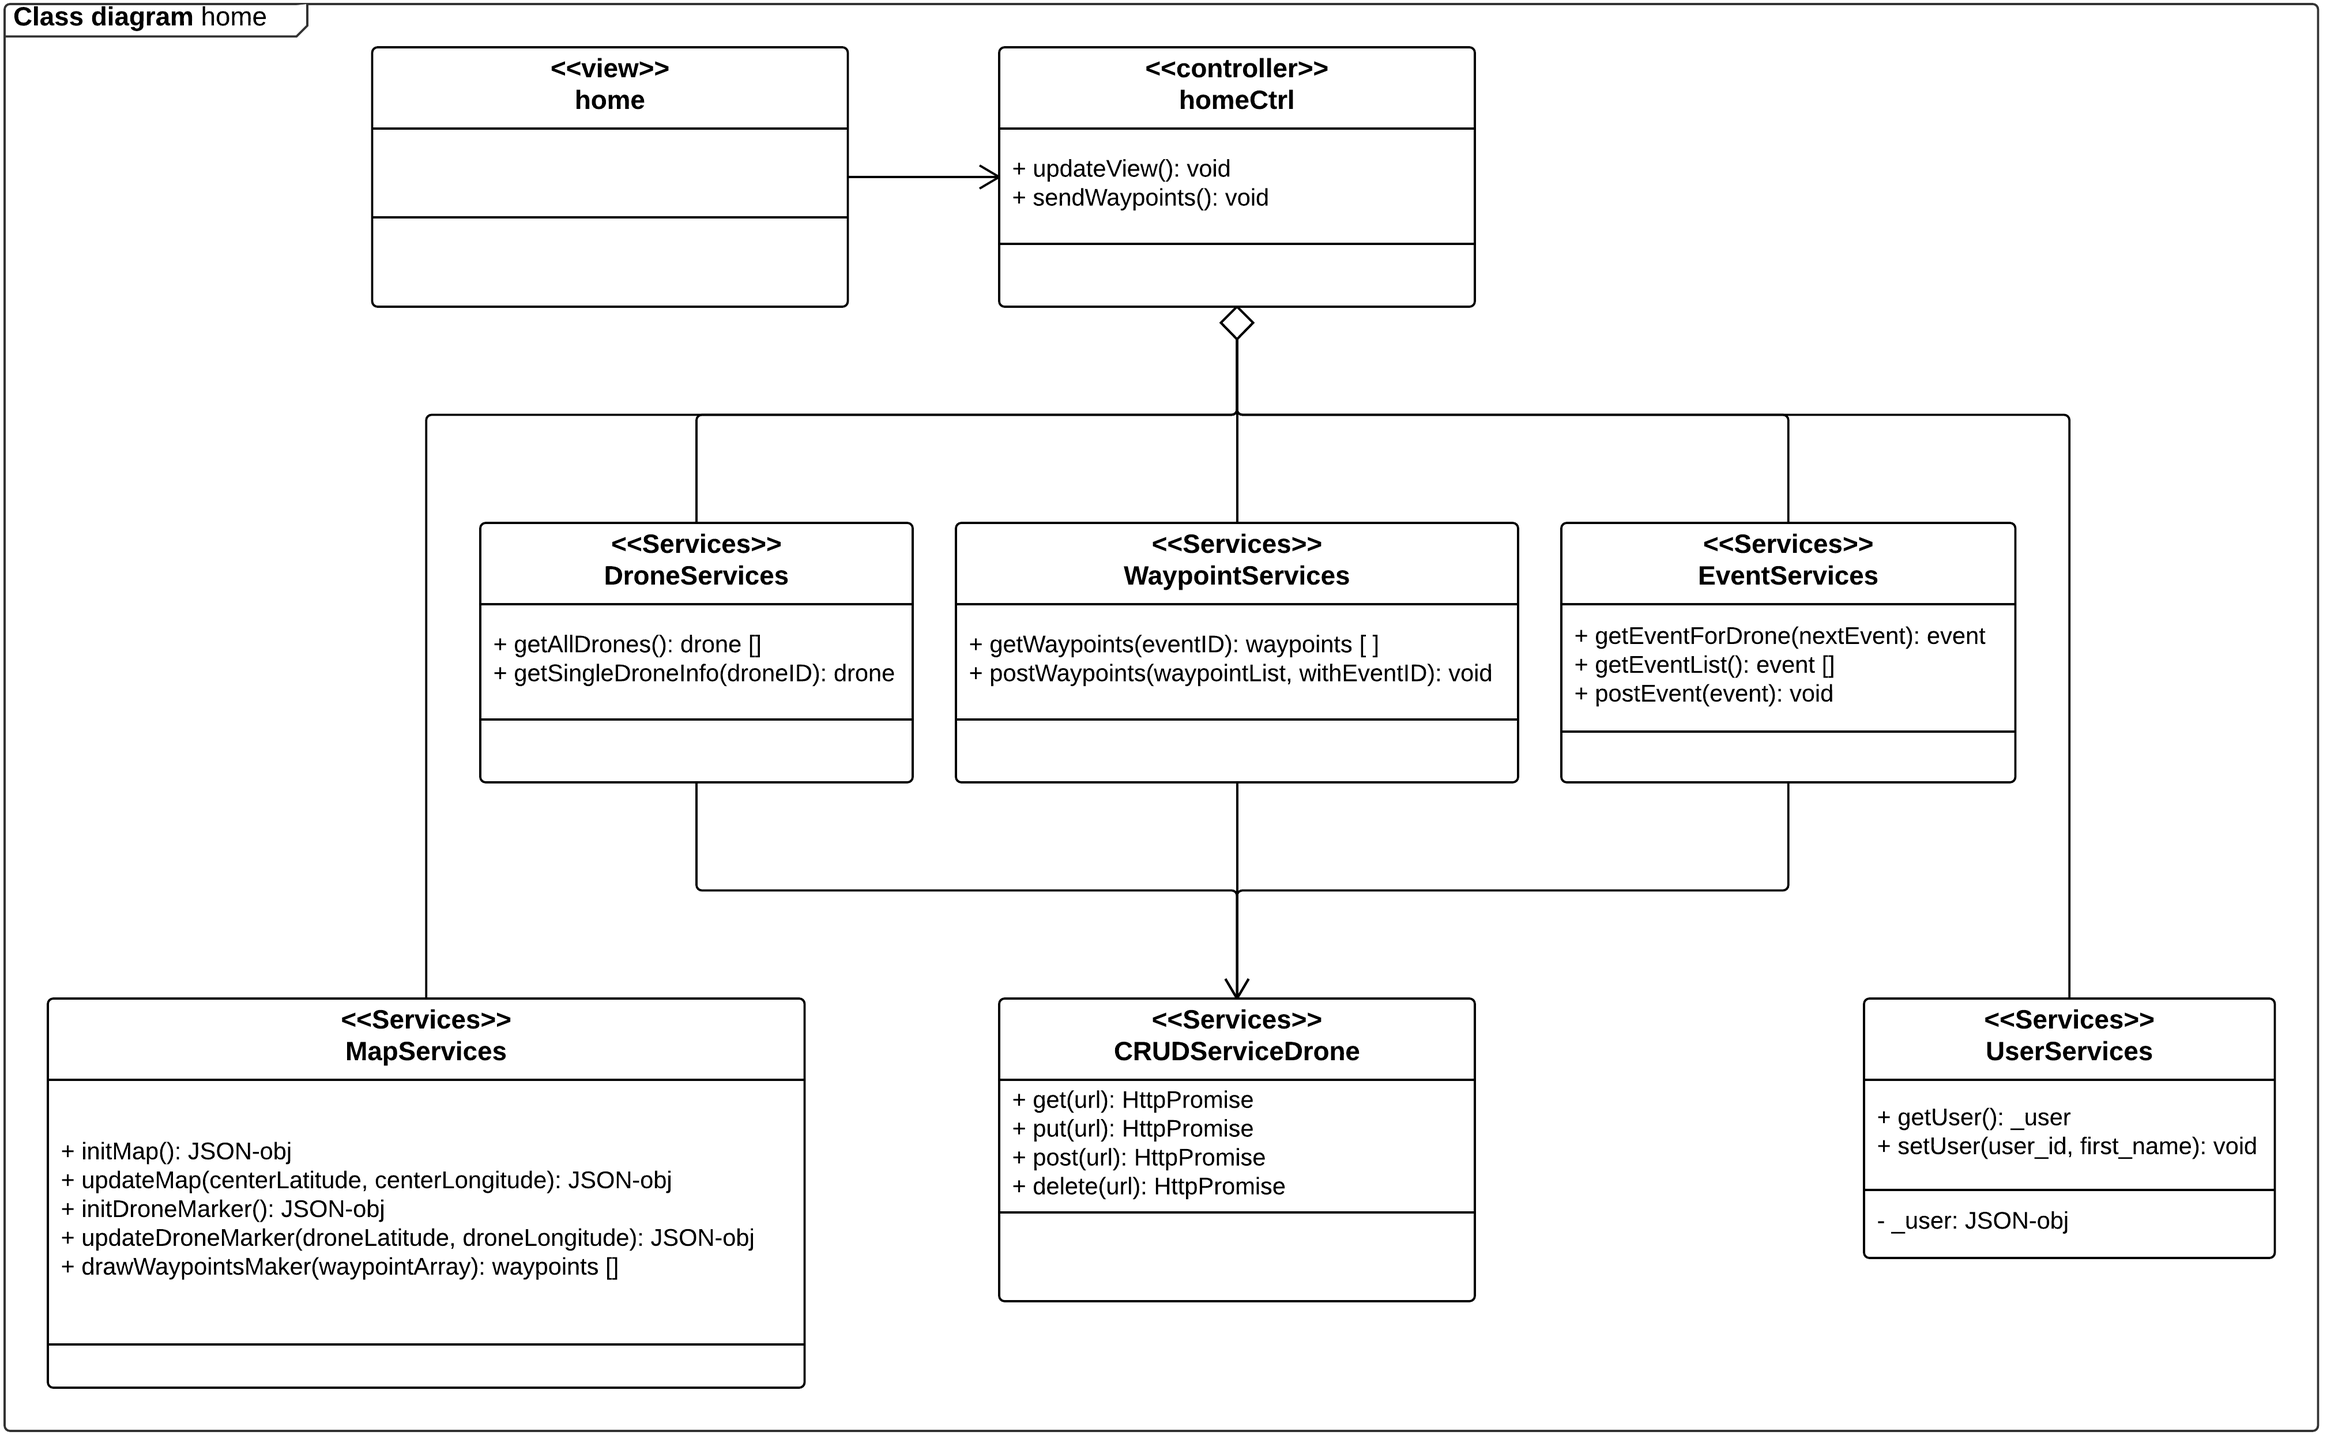
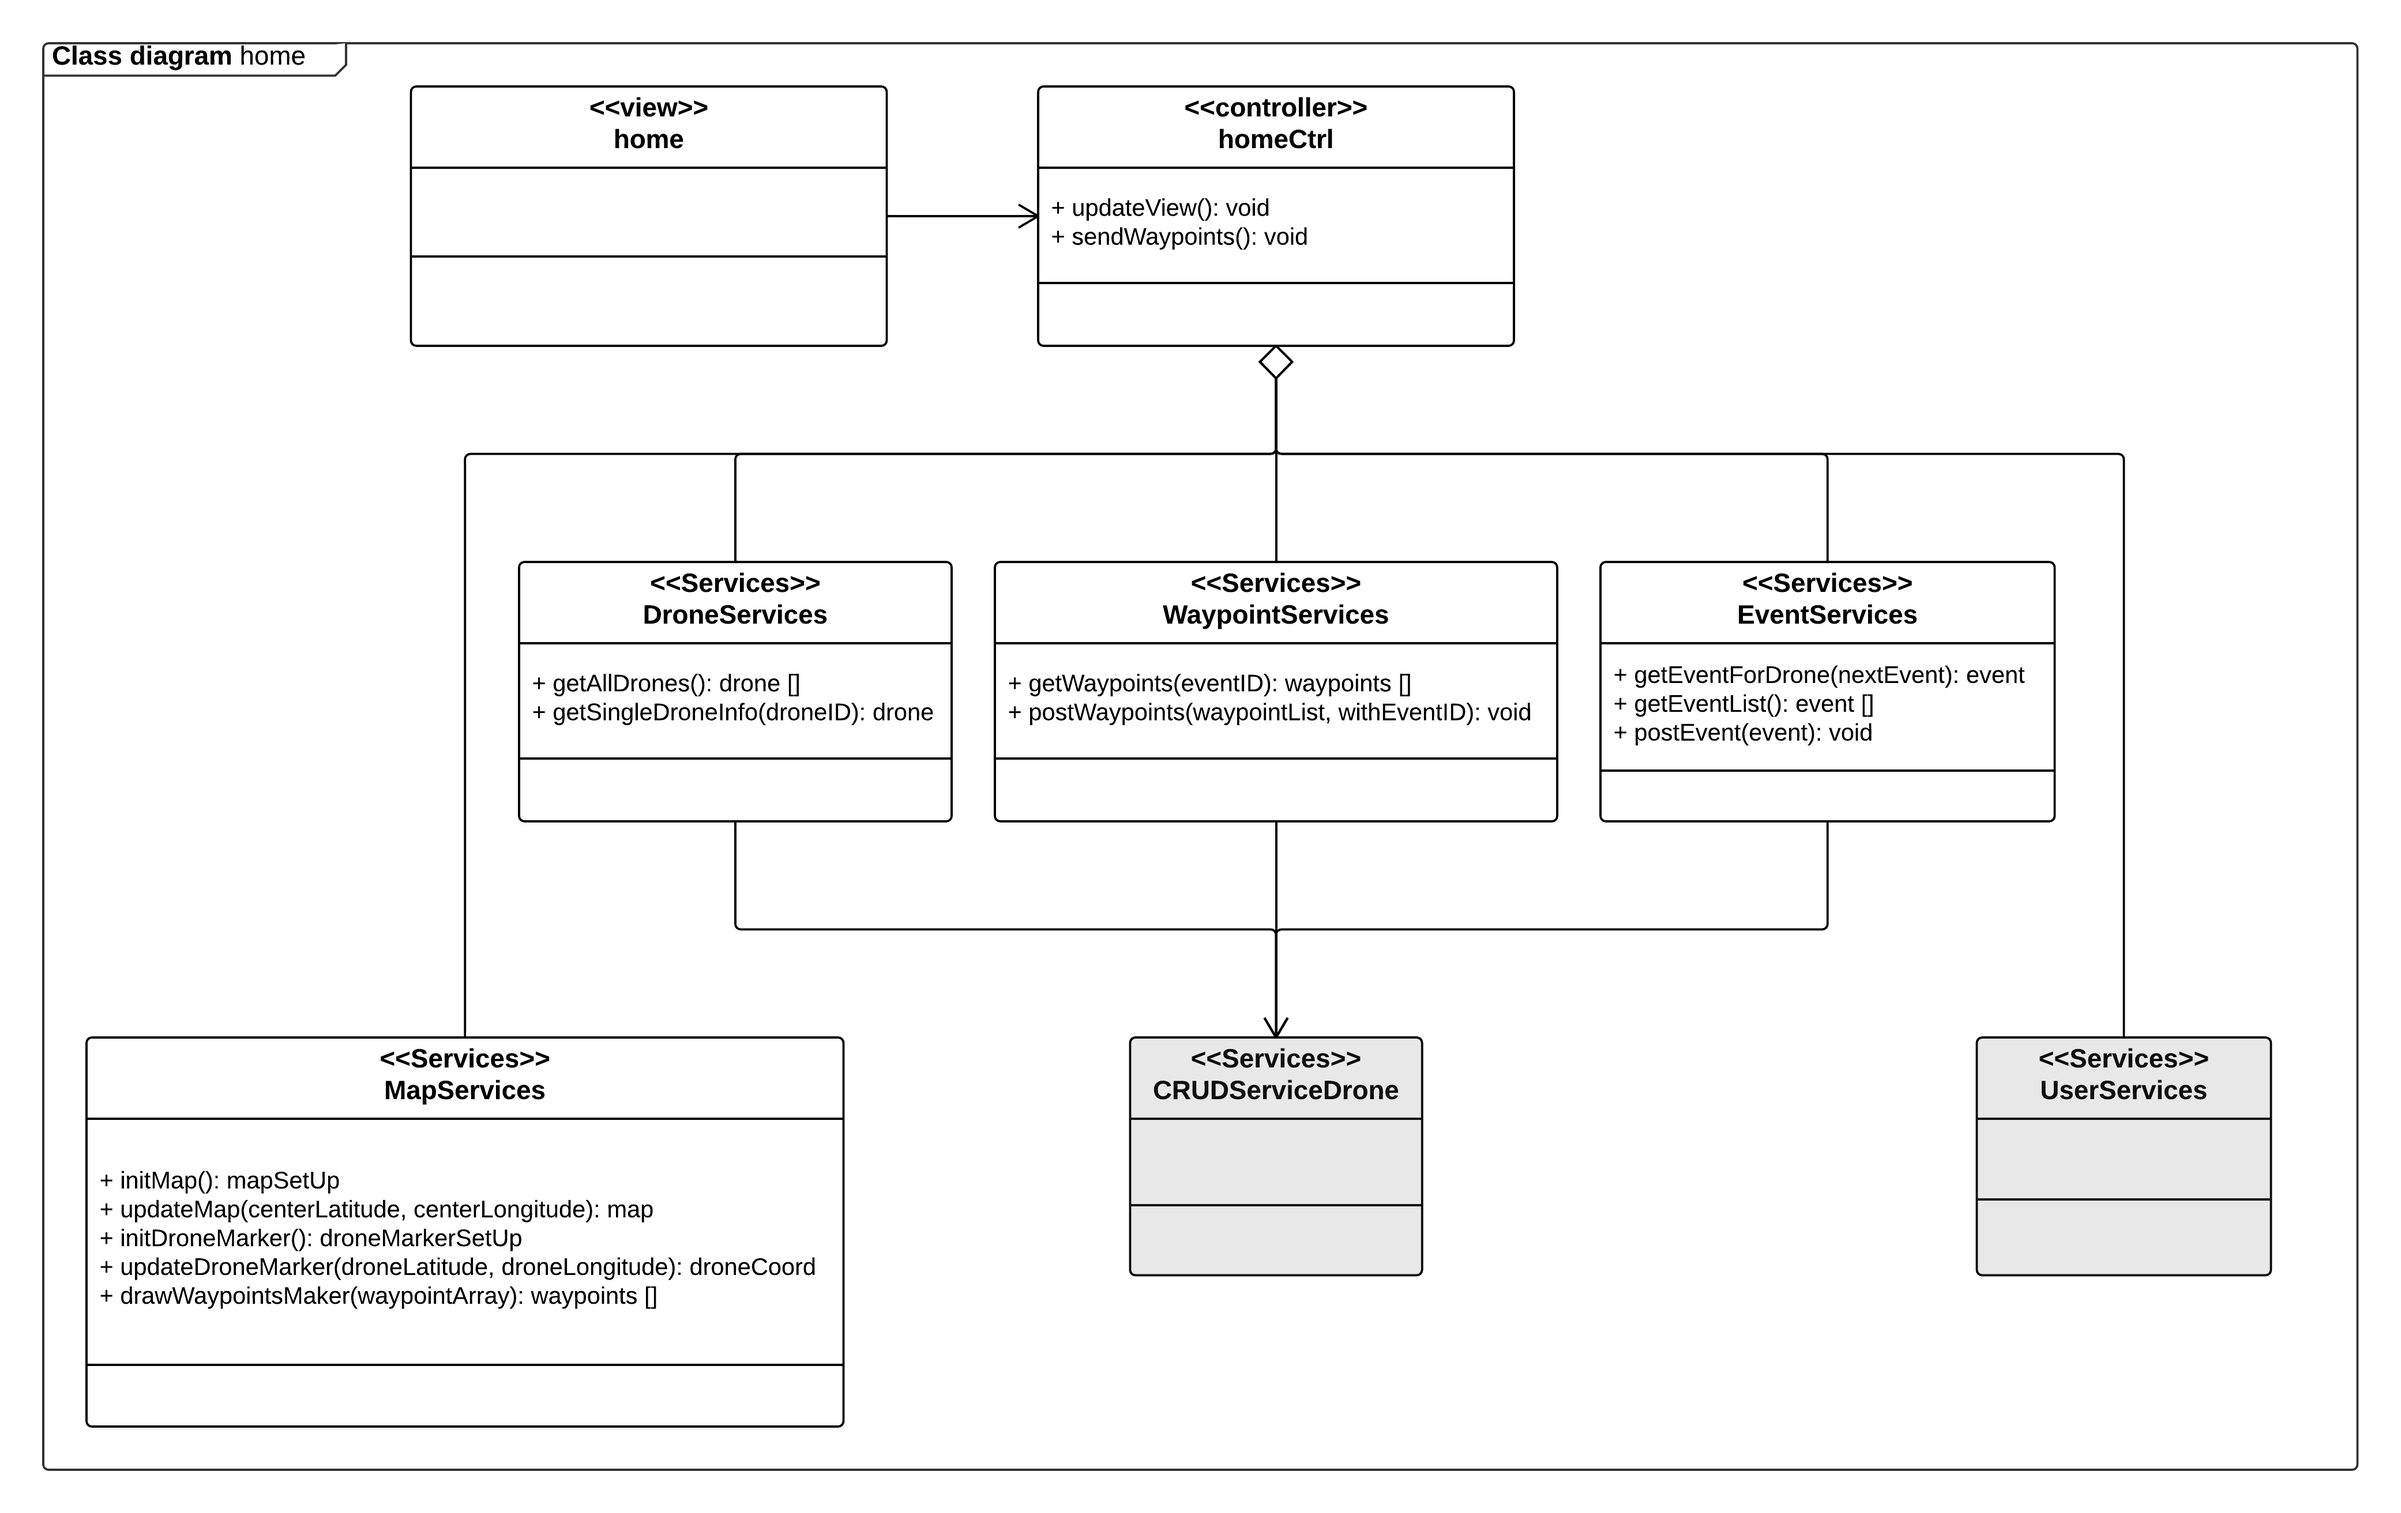
iteration 1 & 2 tilføjelser

diff --git a/5.Transition/Dokumentation/Systemarkitektur/Kapitler/software/views/logicalview_iteration_2.tex b/5.Transition/Dokumentation/Systemarkitektur/Kapitler/software/views/logicalview_iteration_2.tex
@@ -121,7 +121,7 @@ Som det fremgår af while loopet fortsætter flyvningen indtil dronen er 15 mete
 \end{figure}
 
 \newpage
-\subsubsection*{Sekvensdiagram website}
+\subsubsection*{Sekvensdiagram webapplikation}
 \vspace{-0.1cm}
 På figur \ref{fig:page_load} ses hvordan klasserne på websitet interagere med hinanden ved et page load. Kortet bliver initialiseret med centrum over århus og drone markeren bliver initialiseret. Useren som blev gemt ved login bliver brugt til at give en velkomst besked oppe i højre hjørne og sener vil blive brugt når der skal oprettet nye events. Listen med tilgængelige droner bliver loaded. Et click event bliver også oprettet som trigger ved click på kortet til oprettelse af nye waypoints.
 \begin{figure}[H]
@@ -202,7 +202,7 @@ WayPointsHandler klassen er den klasse der håndterer de waypoints der hentes ne
 WayPoint klassen bruges til at kunne hente de forskellige waypoints ud af arrayet.  
 
 
-\subsubsection*{Klassediagram website}
+\subsubsection*{Klassediagram webapplikation}
 \vspace{-0.1cm}
 På figur \ref{fig:classDiagram_home} ses klasse diagrammet tilhørende iteration to for websitet. Funktionaliteten er blevet udvidet med overblik over droner i systemet og deres status. Mulighed for at oprette events til den ønskede drone. 
 \begin{figure}[H]
@@ -212,3 +212,27 @@ På figur \ref{fig:classDiagram_home} ses klasse diagrammet tilhørende iteratio
 	\caption{Klassediagram home}
 	\label{fig:classDiagram_home}
 \end{figure}
+
+\textbf{home}
+Denne klasse er view'et tilhørende iteration to. Denne klasse sammen med homeCtrl skaber det endelig view som brugeren ser i sin browser når han besøger siden.
+
+\textbf{homeCtrl}
+HomeCtrl klassen er controller klassen til iteration to. Det er den eneste klasse der har direkte forbindelse til view'et, homeCtrl klassen deler også hukommelse med view'et igennem two-way-binding med scopes.
+
+\textbf{DroneServices}
+Denne klasse indeholder logikken om drone håndteringen. Den har ansvaret for at hente informationer omkring droner fra serveren via CRUDServiceDrone klassen.
+
+\textbf{WaypointServices}
+Denne klasse indeholder logikken om waypoint håndtering. Denne klasse henter henter waypoints tilhørende et event til controller klassen. Klassen bliver også brugt til at sende waypoints til serveren via CRUDServiceDrone klassen.
+
+\textbf{EventServices}
+Denne klasse indeholder logikken om event håndtering. Klassen bruges til at hente en event liste, et enkelt event for en givet drone og sende et nyoprettet event til serveren via CRUDServiceDrone klassen.
+
+\textbf{MapServices}
+Denne klasse indeholder logikken om map håndtering. Klassen bruges til at opdatere kortet i view'et, tegne waypoints og dronen på kortet.
+
+\textbf{CRUDServicesDrone}
+Denne klasse fungere som bindeled imellem server og webapplikation. Klassen indeholder alt logikken omkring kommunikation til serveren, alle der vil kommunikere med serveren i systemet skal benytte sig af denne klasse. Igennem denne service er det muligt at hente, opdater og poste data til serveren.
+
+\textbf{UserServices}
+Denne klasse blev oprettet i iteration et og bruges til at gemme information omkring hvilke bruger der er logget ind i systemet.

diff --git a/5.Transition/Dokumentation/Systemarkitektur/Kapitler/software/views/logicalview_iteration_1.tex b/5.Transition/Dokumentation/Systemarkitektur/Kapitler/software/views/logicalview_iteration_1.tex
@@ -171,19 +171,19 @@ Figur \ref{fig:classDiagram_login} viser klassediagrammet tilhørende websitet f
 \vspace{-0.2cm}
 
 \textbf{login} \\
-Login view filen er det html script som useren ser på sin webclient. Filen er two-way databinded med loginCtrl klassen. Via denne binding kan der sendes og modtages data direkte.
+Denne klasse er view'et tilhørende iteration et. Denne klasse sammen med loginCtrl skaber det endelig view som brugeren ser i sin browser når han besøger siden.
 
 \textbf{loginCtrl} \\
 LoginCtrl er controller klassen som er forbundet med view klassen via two-way databinding. Klassen uddelegere også opgaver til dens services.
 
 \textbf{AuthenticationServices} \\
-AuthenticationServices er en service der afgør om user er authenticated eller ej. Hvis user er authenticated bliver han redirected til websitets home-page. Klassen gør brug af UserServices til at gemme information om den user der er logget ind i systemet.
+AuthenticationServices klassen har ansvaret for at afgør om user er authenticated eller ej. Hvis user er authenticated bliver han redirected til websitets home-page. Klassen gør brug af UserServices klassen til at gemme information om den user der er logget ind i systemet.
 
 \textbf{UserServices}\\
-UserServices indeholder information om user der er logget ind i systemet.
+UserServices bruges til at gemme information omkring hvilke bruger der er logget ind i systemet.
 
-\textbf{CRUDServiceDrone} \\
-CRUDServiceDrone er den service der styre alt kontakt til databasen i systemet. Igennem denne service er det muligt at hente, opdater og poste data til databasen.
+\textbf{CRUDServicesDrone}
+Denne klasse fungere som bindeled imellem server og webapplikation. Klassen indeholder alt logikken omkring kommunikation til serveren, alle der vil kommunikere med serveren i systemet skal benytte sig af denne klasse. Igennem denne service er det muligt at hente, opdater og poste data til serveren.
 
 
 \subsubsection*{State machine diagram}

diff --git a/5.Transition/Dokumentation/Systemarkitektur/Kapitler/software/views/logicalview.tex b/5.Transition/Dokumentation/Systemarkitektur/Kapitler/software/views/logicalview.tex
@@ -9,13 +9,13 @@ Med applikationsmodellen tages der udgangspunkt i use cases beskrevet i kravspec
 Ud fra domain modellen identificeres de overordnede klasser, der bruges i de forskellige iterationer. Når de overordnede klasser er identificeret beskrives hvordan de kommunikerer via desginoverview og sekvensdiagrammer. Herefter laves state machines med de fundne klasser og til sidst udarbejdes klasse og pakkediagrammer.
 
 
-%\input{kapitler/software/views/logicalview_iteration_1}
+\input{kapitler/software/views/logicalview_iteration_1}
 
 \newpage
 \input{kapitler/software/views/logicalview_iteration_2}
 
-\newpage
-\input{kapitler/software/views/logicalview_iteration_3}
+%\newpage
+%\input{kapitler/software/views/logicalview_iteration_3}
 
-\newpage
-\input{kapitler/software/views/logicalview_iteration_4}
+%\newpage
+%\input{kapitler/software/views/logicalview_iteration_4}

diff --git a/5.Transition/Dokumentation/Systemarkitektur/Kapitler/software/software.tex b/5.Transition/Dokumentation/Systemarkitektur/Kapitler/software/software.tex
@@ -2,19 +2,19 @@
 
 I det følgende afsnit beskrives systemet softwarearkitektur vha. N+1 view modellen og en række UML diagrammer. Der gøres bla. brug af state machines, designoverview-, sekvens-, klasse- og pakkediagrammer. N+1 view modellen tager udgangspunkt i de use cases der er beskrevet i kravspecifikationen, hvilket betyder at softwarearkitekturen er fuldt ud use case baseret.
 
-\input{kapitler/software/views/_n+1}
+%\input{kapitler/software/views/_n+1}
 
 \newpage
-%\input{kapitler/software/views/logicalview}
+\input{kapitler/software/views/logicalview}
 
-\newpage
+%\newpage
 %\input{kapitler/software/views/procesview}
 
-\newpage
+%\newpage
 %\input{kapitler/software/views/dataview}
 
-\newpage
+%\newpage
 %\input{kapitler/software/views/deploymentview}
 
-\newpage
+%\newpage
 %\input{kapitler/software/views/implementationview}
